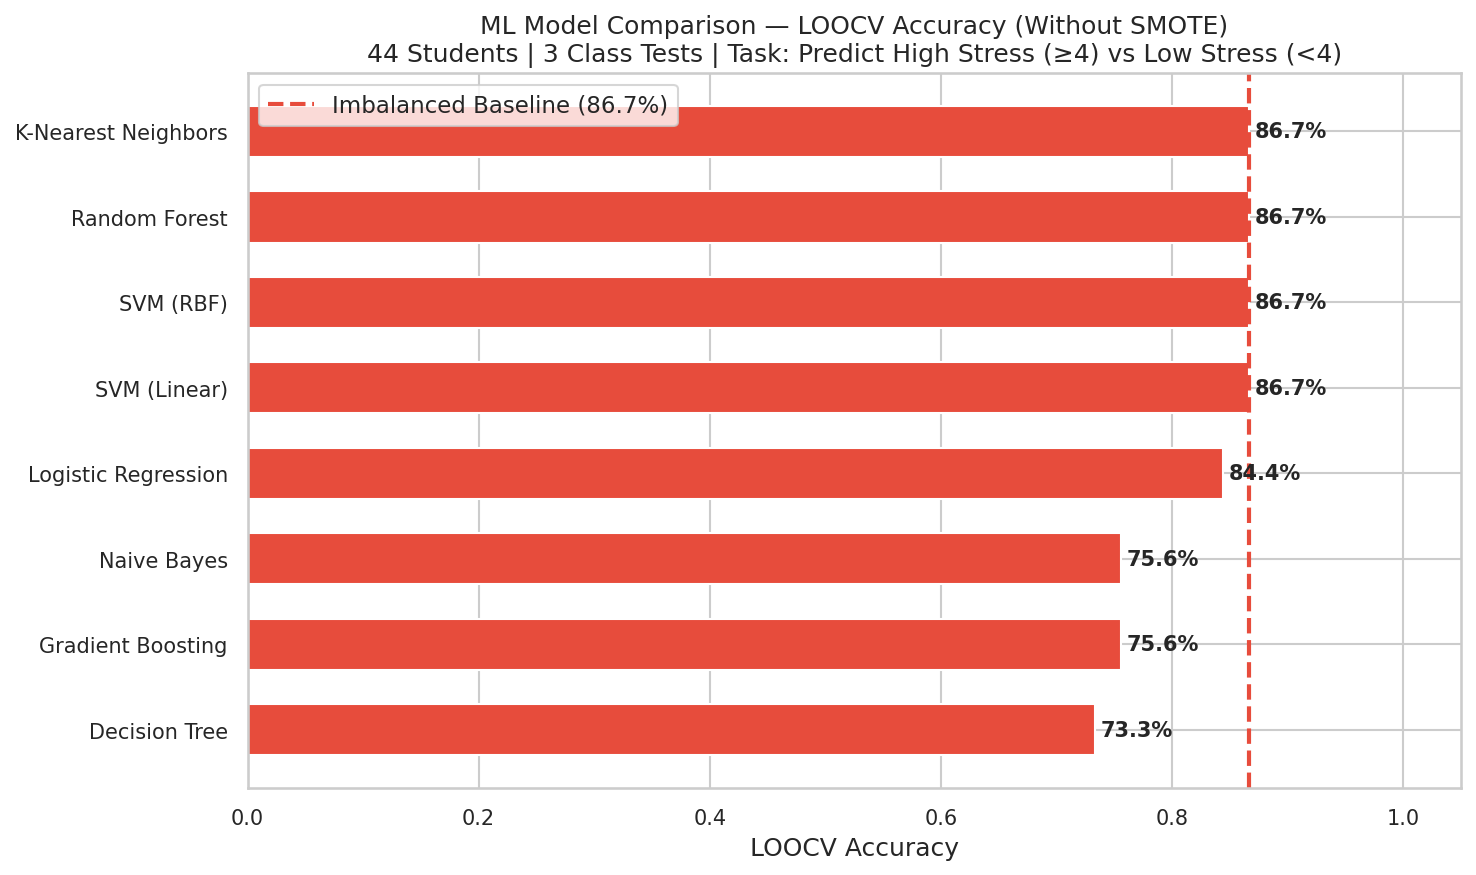
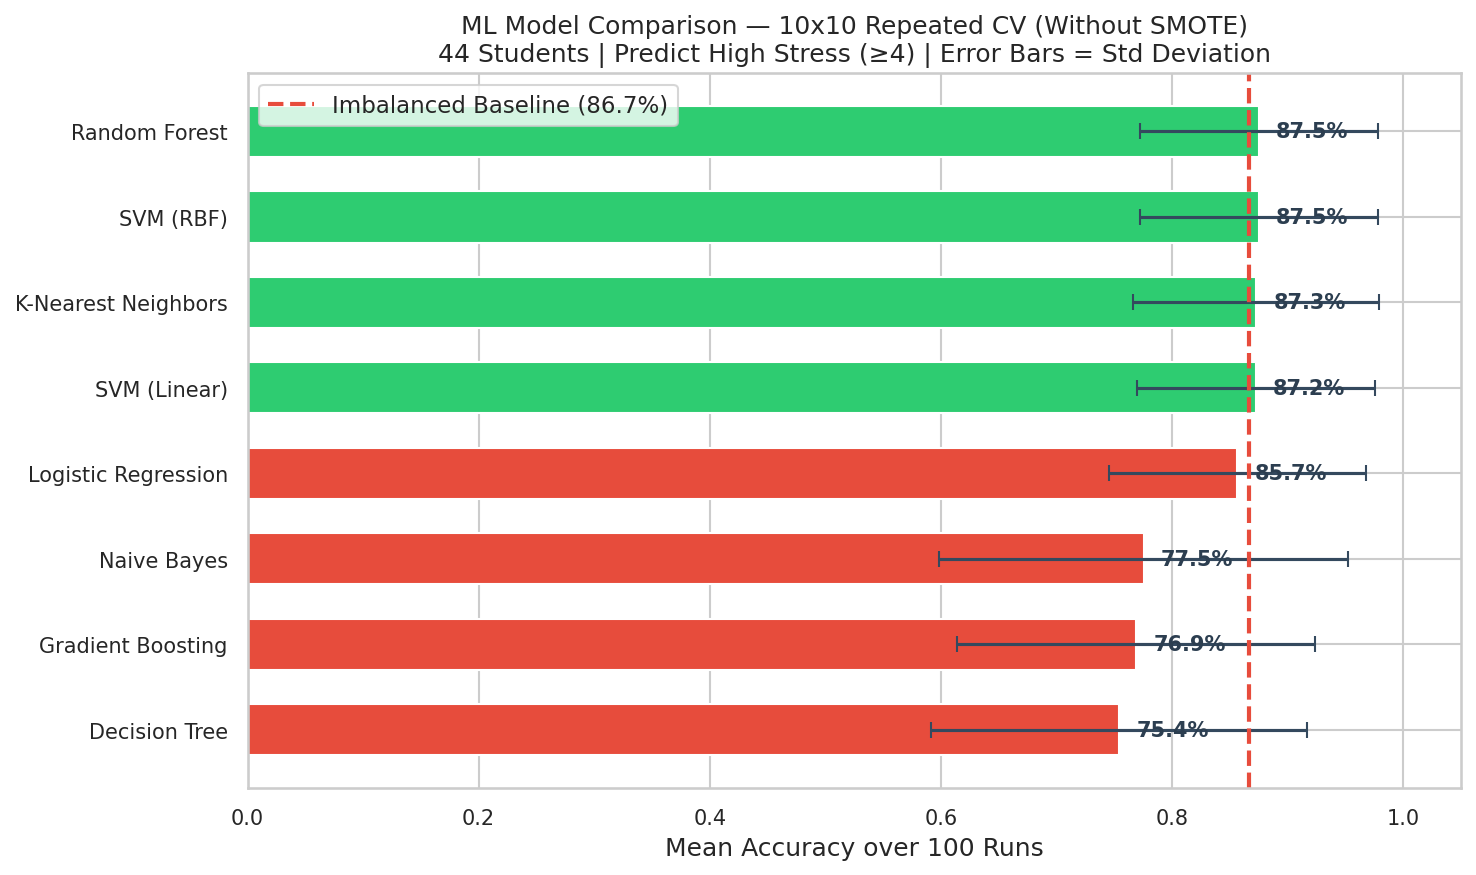
Update methodology to 10x10 Repeated Cross-Validation and update charts with error bars

diff --git a/scripts/7_train_model_10x_cv.py b/scripts/7_train_model_10x_cv.py
@@ -1,0 +1,107 @@
+import os
+import pandas as pd
+import numpy as np
+from sklearn.model_selection import RepeatedStratifiedKFold, cross_validate
+from sklearn.preprocessing import StandardScaler
+from imblearn.pipeline import Pipeline
+from imblearn.over_sampling import SMOTE
+from sklearn.linear_model import LogisticRegression
+from sklearn.svm import SVC
+from sklearn.ensemble import RandomForestClassifier, GradientBoostingClassifier
+from sklearn.neighbors import KNeighborsClassifier
+from sklearn.tree import DecisionTreeClassifier
+from sklearn.naive_bayes import GaussianNB
+import warnings
+warnings.filterwarnings('ignore')
+
+BASE_DIR = r"f:\CodeBlocks20.03-AnxietyMonitor"
+DATA_FILE = os.path.join(BASE_DIR, "data", "processed", "master_dataset.csv")
+
+print("Loading data for 10x10 Repeated Cross-Validation...")
+df = pd.read_csv(DATA_FILE)
+
+features = ['typing_speed_wpm', 'latency_variance_ms', 'pause_ratio',
+            'backspace_rate', 'idle_ratio', 'focus_switches',
+            'compile_success_rate', 'session_fragmentation', 'anxiety_score']
+
+# Convert columns
+for col in features + ['survey_reported_stress']:
+    df[col] = pd.to_numeric(df[col], errors='coerce')
+df = df.dropna(subset=features + ['survey_reported_stress'])
+
+# Aggregate per student
+student_agg = df.groupby(['student_id', 'session_name']).agg({
+    'typing_speed_wpm': 'mean', 'latency_variance_ms': 'mean',
+    'pause_ratio': 'mean', 'backspace_rate': 'mean', 'idle_ratio': 'mean',
+    'focus_switches': 'max', 'compile_success_rate': 'mean',
+    'session_fragmentation': 'mean', 'survey_reported_stress': 'first'
+}).reset_index()
+
+# Define features and target (High Stress >= 4)
+feat_cols = ['typing_speed_wpm', 'latency_variance_ms', 'pause_ratio',
+             'backspace_rate', 'idle_ratio', 'focus_switches',
+             'compile_success_rate', 'session_fragmentation']
+X = student_agg[feat_cols]
+y = (student_agg['survey_reported_stress'] >= 4).astype(int)
+
+print(f"Dataset ready. Total Students: {len(X)}")
+
+# Define models
+models = {
+    'SVM (RBF)': SVC(kernel='rbf', random_state=42),
+    'Random Forest': RandomForestClassifier(n_estimators=100, random_state=42),
+    'Gradient Boosting': GradientBoostingClassifier(random_state=42),
+    'Logistic Regression': LogisticRegression(random_state=42, max_iter=1000),
+    'K-Nearest Neighbors': KNeighborsClassifier(n_neighbors=3),
+    'SVM (Linear)': SVC(kernel='linear', random_state=42),
+    'Decision Tree': DecisionTreeClassifier(random_state=42),
+    'Naive Bayes': GaussianNB()
+}
+
+# 10 splits, repeated 10 times = 100 training runs per model
+rskf = RepeatedStratifiedKFold(n_splits=10, n_repeats=10, random_state=42)
+smote = SMOTE(k_neighbors=3, random_state=42)
+
+print("\nExecuting 10x10 Repeated Cross Validation with SMOTE (100 runs per model)...")
+print("-" * 65)
+print(f"{'Model':<25} | {'Mean Accuracy':<15} | {'Std Dev (Stability)':<20}")
+print("-" * 65)
+
+results = []
+for name, model in models.items():
+    # SMOTE is inside the pipeline to prevent data leakage during folds
+    pipe = Pipeline([
+        ('scaler', StandardScaler()),
+        ('smote', smote),
+        ('clf', model)
+    ])
+    
+    cv_scores = cross_validate(pipe, X, y, cv=rskf, scoring='accuracy', n_jobs=-1)
+    acc_scores = cv_scores['test_score']
+    
+    mean_acc = np.mean(acc_scores)
+    std_acc = np.std(acc_scores)
+    
+    results.append({
+        'Model': name,
+        'Mean Accuracy': mean_acc,
+        'Std Dev': std_acc
+    })
+    
+    print(f"{name:<25} | {mean_acc*100:>6.2f}%         | ±{std_acc*100:>5.2f}%")
+
+print("-" * 65)
+
+# Save to file
+results_df = pd.DataFrame(results).sort_values('Mean Accuracy', ascending=False)
+out_path = os.path.join(BASE_DIR, "results", "repeated_10x_cv_results.txt")
+with open(out_path, 'w') as f:
+    f.write("--- 10x10 Repeated Stratified Cross-Validation (WITH SMOTE) ---\n")
+    f.write("Evaluation: 10 Folds, Repeated 10 Times (100 training runs per model)\n")
+    f.write("This proves the stability and robustness of the models.\n\n")
+    f.write(f"{'Model':<25} {'Mean Accuracy':<15} {'Std Deviation'}\n")
+    f.write("-" * 55 + "\n")
+    for _, row in results_df.iterrows():
+        f.write(f"{row['Model']:<25} {row['Mean Accuracy']*100:>6.2f}%         ±{row['Std Dev']*100:>5.2f}%\n")
+
+print(f"\nResults saved to {out_path}")

diff --git a/scripts/6_generate_visualizations.py b/scripts/6_generate_visualizations.py
@@ -6,7 +6,7 @@ matplotlib.use('Agg')
 import matplotlib.pyplot as plt
 import seaborn as sns
 from scipy.stats import pearsonr, spearmanr
-from sklearn.model_selection import cross_validate, LeaveOneOut
+from sklearn.model_selection import RepeatedStratifiedKFold, cross_validate
 from sklearn.preprocessing import StandardScaler
 from imblearn.pipeline import Pipeline
 from imblearn.over_sampling import SMOTE
@@ -131,26 +131,27 @@ models = {
     'Decision Tree': DecisionTreeClassifier(random_state=42),
     'Naive Bayes': GaussianNB()
 }
-loo = LeaveOneOut()
+rskf = RepeatedStratifiedKFold(n_splits=10, n_repeats=10, random_state=42)
 results_plain = []
-print("\nRunning LOOCV (No SMOTE)...")
+print("\nRunning 10x10 Repeated CV (No SMOTE)...")
 for name, model in models.items():
     pipe = Pipeline([('scaler', StandardScaler()), ('clf', model)])
-    cv = cross_validate(pipe, X, y_class, cv=loo, scoring=['accuracy'])
+    cv = cross_validate(pipe, X, y_class, cv=rskf, scoring=['accuracy'], n_jobs=-1)
     acc = np.mean(cv['test_accuracy'])
-    results_plain.append({'Model': name, 'Accuracy': acc})
-    print(f"  {name}: {acc:.3f}")
+    std = np.std(cv['test_accuracy'])
+    results_plain.append({'Model': name, 'Accuracy': acc, 'Std': std})
+    print(f"  {name}: {acc:.3f} ± {std:.3f}")
 
 df_plain = pd.DataFrame(results_plain).sort_values('Accuracy', ascending=True)
 
 fig, ax = plt.subplots(figsize=(10, 6))
 colors = ['#2ecc71' if a > baseline else '#e74c3c' for a in df_plain['Accuracy']]
-bars = ax.barh(df_plain['Model'], df_plain['Accuracy'], color=colors, edgecolor='white', height=0.6)
+bars = ax.barh(df_plain['Model'], df_plain['Accuracy'], xerr=df_plain['Std'], color=colors, edgecolor='white', height=0.6, error_kw={'ecolor': '#34495e', 'capsize': 4, 'elinewidth': 1.5})
 ax.axvline(x=baseline, color='#e74c3c', linestyle='--', linewidth=2, label=f'Imbalanced Baseline ({baseline:.1%})')
 for bar, val in zip(bars, df_plain['Accuracy']):
-    ax.text(val + 0.005, bar.get_y() + bar.get_height()/2, f'{val:.1%}', va='center', fontsize=10, fontweight='bold')
-ax.set_xlabel('LOOCV Accuracy')
-ax.set_title('ML Model Comparison — LOOCV Accuracy (Without SMOTE)\n44 Students | 3 Class Tests | Task: Predict High Stress (≥4) vs Low Stress (<4)', fontsize=12)
+    ax.text(val + 0.015, bar.get_y() + bar.get_height()/2, f'{val:.1%}', va='center', fontsize=10, fontweight='bold', color='#2c3e50')
+ax.set_xlabel('Mean Accuracy over 100 Runs')
+ax.set_title('ML Model Comparison — 10x10 Repeated CV (Without SMOTE)\n44 Students | Predict High Stress (≥4) | Error Bars = Std Deviation', fontsize=12)
 ax.set_xlim(0, 1.05)
 ax.legend()
 plt.tight_layout()
@@ -163,24 +164,25 @@ print("[OK] Saved: model_comparison_bar.png")
 # ─────────────────────────────────────────────
 smote = SMOTE(k_neighbors=3, random_state=42)
 results_smote = []
-print("\nRunning LOOCV (With SMOTE)...")
+print("\nRunning 10x10 Repeated CV (With SMOTE)...")
 for name, model in models.items():
     pipe = Pipeline([('scaler', StandardScaler()), ('smote', smote), ('clf', model)])
-    cv = cross_validate(pipe, X, y_class, cv=loo, scoring=['accuracy'])
+    cv = cross_validate(pipe, X, y_class, cv=rskf, scoring=['accuracy'], n_jobs=-1)
     acc = np.mean(cv['test_accuracy'])
-    results_smote.append({'Model': name, 'Accuracy': acc})
-    print(f"  {name}: {acc:.3f}")
+    std = np.std(cv['test_accuracy'])
+    results_smote.append({'Model': name, 'Accuracy': acc, 'Std': std})
+    print(f"  {name}: {acc:.3f} ± {std:.3f}")
 
 df_smote = pd.DataFrame(results_smote).sort_values('Accuracy', ascending=True)
 
 fig, ax = plt.subplots(figsize=(10, 6))
 colors = ['#3498db' if a > 0.5 else '#e74c3c' for a in df_smote['Accuracy']]
-bars = ax.barh(df_smote['Model'], df_smote['Accuracy'], color=colors, edgecolor='white', height=0.6)
+bars = ax.barh(df_smote['Model'], df_smote['Accuracy'], xerr=df_smote['Std'], color=colors, edgecolor='white', height=0.6, error_kw={'ecolor': '#34495e', 'capsize': 4, 'elinewidth': 1.5})
 ax.axvline(x=0.5, color='#e74c3c', linestyle='--', linewidth=2, label='Random Guessing Baseline (50%)')
 for bar, val in zip(bars, df_smote['Accuracy']):
-    ax.text(val + 0.005, bar.get_y() + bar.get_height()/2, f'{val:.1%}', va='center', fontsize=10, fontweight='bold')
-ax.set_xlabel('LOOCV Accuracy')
-ax.set_title('ML Model Comparison — LOOCV Accuracy (With SMOTE Balancing)\n44 Students | 3 Class Tests | Balanced Classes | 50% = Random Guessing', fontsize=12)
+    ax.text(val + 0.015, bar.get_y() + bar.get_height()/2, f'{val:.1%}', va='center', fontsize=10, fontweight='bold', color='#2c3e50')
+ax.set_xlabel('Mean Accuracy over 100 Runs')
+ax.set_title('ML Model Comparison — 10x10 Repeated CV (With SMOTE Balancing)\n44 Students | Balanced Classes | Error Bars = Std Deviation', fontsize=12)
 ax.set_xlim(0, 1.05)
 ax.legend()
 plt.tight_layout()